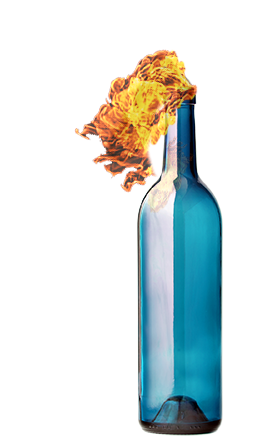
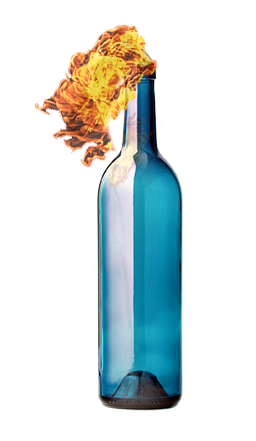
A few new spritesheets
the fire looks better now.
i added in a new music button to match the sound effects button

diff --git a/src/Preload.js b/src/Preload.js
@@ -51,7 +51,7 @@ BasicGame.Preloader.prototype = {
         this.load.image("resetgame", "asset/menu/resetgame.png");
         this.load.image("thankyou", "asset/menu/thankyou.png");
         this.load.image("playBtn", "asset/menu/playbutton.png");
-        this.load.spritesheet('musicToggle', 'asset/music_status.png',135,160,2);
+        this.load.spritesheet('musicToggle', 'asset/music_status_new.png',210,160,2);
         this.load.spritesheet('soundfxToggle','asset/fx_status.png',210,160,2);
         this.load.spritesheet('woodBlocker', 'asset/wood_spritesheet.png',110,77,5);
         
